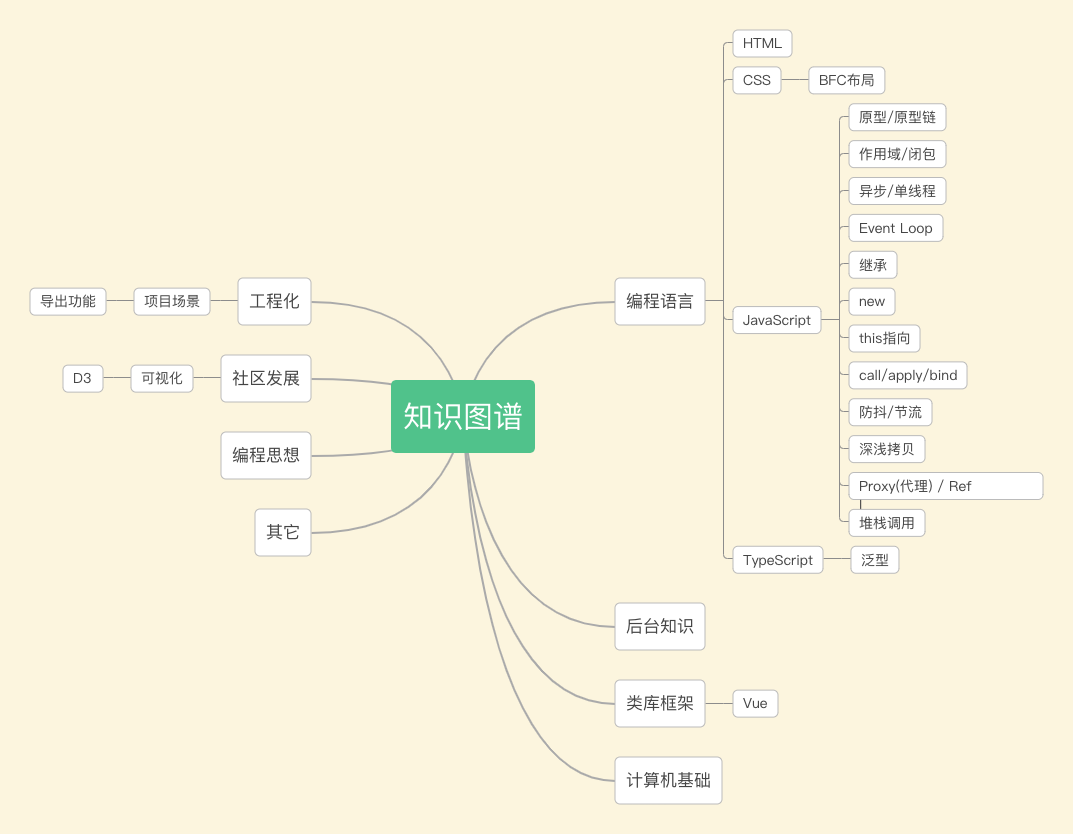
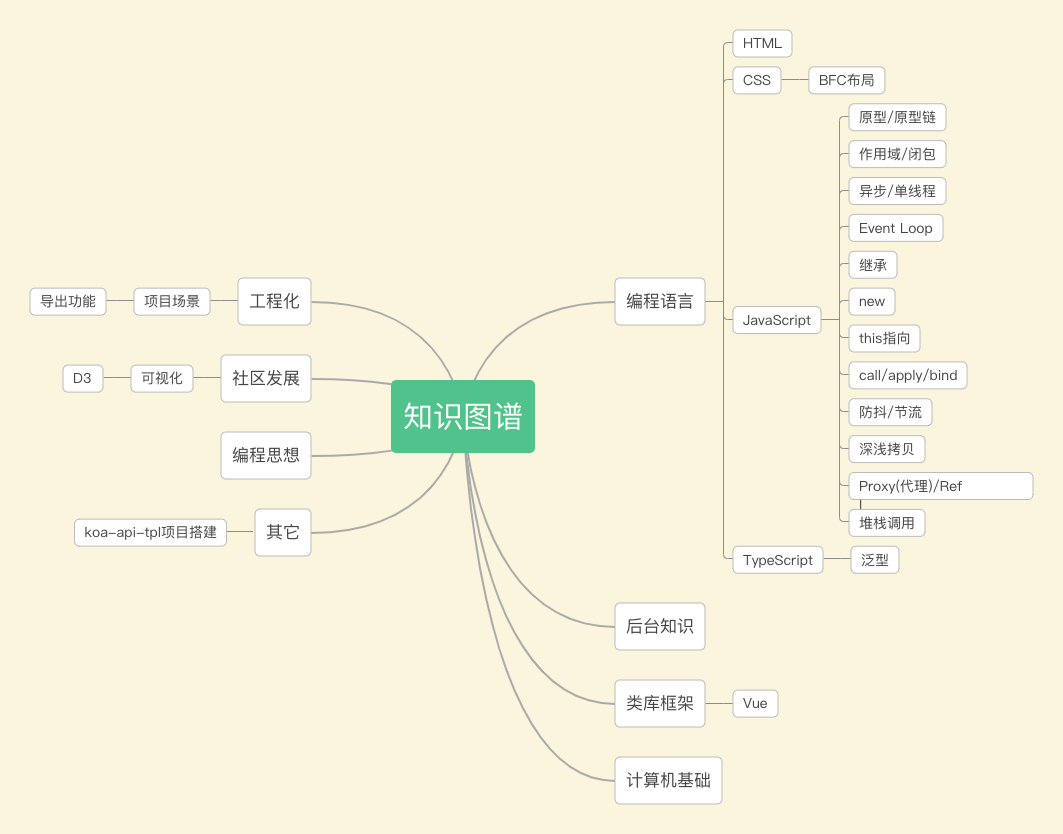
docs: koa-api项目搭建

diff --git a/Other/koa-api-tpl项目搭建.md b/Other/koa-api-tpl项目搭建.md
@@ -1,0 +1,341 @@
+## 目录
+
+```
+koa-api-tpl
+├─ .eslintrc.js            // eslint配置
+├─ .prettierrc             // prettierrc配置
+├─ .huskyrc                // 钩子Husky
+├─ commitlint.config.js    // commitlint配置
+├─ ormconfig.js            // typeorm数据库配置
+├─ package.json            // 项目配置
+├─ src
+│    ├─ controller         // 业务逻辑
+│    ├─ entity             // 数据库模型
+│    ├─ index.ts           // 入口
+│    ├─ middlewares        // 中间件
+│    ├─ routes             // 路由
+│    ├─ types              // 数据的类型
+│    └─ utils              // 常用工具
+└─ tsconfig.json
+```
+
+### 快速构建一个项目
+
+```
+mkdir koa-api-tpl
+
+npm init   // 生成package.json文件
+
+npm install koa --save
+
+npm install --save-dev typescript @types/koa
+```
+
+生成tsc配置文件(tsconfig.json):
+
+```
+tsc --init
+```
+文件详情：[tsconfig.json](https://github.com/levinhax/koa-api-tpl/blob/master/tsconfig.json)
+
+在node中采用CommonJS 模块规范，而我们使用TypeScript之后，将会使用es6的import进行模块的导入导出，而typescript文件最终编译回javascript文件的时候，需要将这部分代码转换成CommonJS规范，否则项目出错，所以module选项应为commonjs。
+
+### 编写并启动文件
+
+```
+src/index.ts
+
+const Koa = require('koa')
+const app = new Koa()
+
+import { Context } from 'koa'
+
+app.use(async (ctx: Context) => {
+    ctx.body = 'Hello World'
+})
+
+app.listen(5000, () => {
+    console.log(`Server is running on port 5000`)
+})
+```
+
+### 开发热更新
+
+1. ts-node-dev
+
+```
+npm install --save-dev ts-node-dev cross-env
+```
+
+```
+"scripts": {
+  "dev": "cross-env NODE_ENV=development ts-node-dev --inspect -- src/index.ts",
+}
+```
+
+2. ts-node + nodemon实现Typescript项目热更新
+
+- ts-node: 直接运行ts项目
+- nodemon: 监听文件改变自动重启Node Server服务的工具
+
+```
+"scripts": {
+  "start": "nodemon -e ts,tsx --exec ts-node src/index.ts"
+}
+```
+
+上述参数是设置在命令行中的，也可以在nodemon.json中设置
+```
+"scripts": {
+  "start": "nodemon src/index.ts"
+}
+```
+
+```
+// nodemon.json
+
+{
+    "restartable": "rs",
+    "verbose": true,
+    "execMap": {
+        "ts": "ts-node"
+    },
+    "ignore": ["**/*.test.ts", ".git", "node_modules"],
+    "watch": ["src"],
+    "env": {
+        "TS_NODE_FILES": "true",
+        "TS_NODE_PROJECT": "./tsconfig.json",
+        "APP_ENV": "dev",
+        "NODE_ENV": "qa",
+        "DBNAME": "galaxy",
+        "DBACCOUNT": "root",
+        "DBPASSWORD": "pass123456"
+    },
+    "ext": "js,json,ts"
+}
+```
+
+### 代码规范
+
+#### eslint结合prettier规范代码并格式化
+
+```
+npm install --save-dev eslint prettier @typescript-eslint/parser @typescript-eslint/eslint-plugin eslint-config-airbnb eslint-config-prettier eslint-plugin-prettier
+```
+
+- eslint-config-airbnb: airbnb是我们主要的代码检测规则
+- eslint-config-prettier: 解决eslint和prettier对于同一个错误多次报错的问题
+- eslint-plugin-prettier: 让eslint调用prettier对你的代码风格进行检查
+- 在根目录下新建 .eslintrc.js 文件
+- 根目录添加 .prettierrc 文件，用作该项目的prettierrc格式化配置
+
+```
+.eslintrc.js
+
+module.exports = {
+  parser: '@typescript-eslint/parser', // Specifies the ESLint parser
+  extends: [
+    'plugin:@typescript-eslint/recommended', // Uses the recommended rules from @typescript-eslint/eslint-plugin
+    'prettier/@typescript-eslint',
+    'plugin:prettier/recommended'
+  ],
+  parserOptions: {
+    ecmaVersion: 2020, // Allows for the parsing of modern ECMAScript features
+    sourceType: 'module', // Allows for the use of imports
+    ecmaFeatures: {
+      jsx: true // Allows for the parsing of JSX
+    }
+  },
+  rules: {
+    // Place to specify ESLint rules. Can be used to overwrite rules specified from the extended configs
+    // e.g. '@typescript-eslint/explicit-function-return-type': 'off',
+    '@typescript-eslint/no-var-requires': 'off',
+    'no-console': 'off',
+    'no-debugger': 'off',
+    'no-unused-vars': 'off'
+  },
+  env: {
+    browser: true,
+    node: true
+  }
+}
+```
+
+```
+.prettierrc
+
+{
+  "printWidth": 100,
+  "tabWidth": 2,
+  "singleQuote": true,
+  "semi": false,
+  "proseWrap": "always",
+  "arrowParens": "avoid",
+  "bracketSpacing": true,
+  "endOfLine": "lf"
+}
+```
+
+.prettierrc和.eslintrc.js配置中，如果module出现了警告，在在根目录新建.eslintignore，在该文件里面把 .eslintrc.js和.prettierrc文件添加为检测对象即可
+```
+// .eslintignore
+
+!.prettierrc    // ! 是添加进检测的意思
+```
+
+#### 使用husky做pre-commit
+
+- 添加一个命令到package.json中去，用作代码格式检测
+
+```
+"scripts": {
+    "test": "echo \"Error: no test specified\" && exit 1",
+    "lint": "eslint src --ext .ts,.tsx"
+},
+```
+
+- 添加pre-commit
+
+我们使用husky这个库来为我们添加pre-commit功能: npm install husky --save-dev
+
+```
+// package.json
+
+"husky": {
+    "hooks": {
+      "pre-commit": "npm run lint"
+    }
+},
+```
+这里直接使用了.huskyrc配置文件
+
+```
+{
+  "hooks": {
+    "pre-commit": "lint-staged",
+    "commit-msg": "commitlint -E HUSKY_GIT_PARAMS"
+  }
+}
+```
+
+- 使用commitlint规范git提交信息
+
+```
+npm install --save-dev lint-staged @commitlint/cli @commitlint/config-conventional
+```
+
+在根目录新建一个 commitlint.config.js 文件，用作自定义一些commit提交规则，当然这一步也可以不做，直接使用常规校验也行
+```
+module.exports = {
+  extends: ['@commitlint/config-conventional'],
+  rules: {
+    'type-enum': [
+      2,
+      'always',
+      [
+        'build',
+        'ci',
+        'chore',
+        'docs',
+        'feat',
+        'fix',
+        'perf',
+        'refactor',
+        'revert',
+        'style',
+        'test',
+      ],
+    ],
+    'type-case': [0],
+    'type-empty': [0],
+    'scope-empty': [0],
+    'scope-case': [0],
+    'subject-full-stop': [0, 'never'],
+    'subject-case': [0, 'never'],
+    'header-max-length': [0, 'always', 72],
+  },
+}
+```
+
+在之前的husky配置中，把commitlint的校验命令添加进去:
+```
+"husky": {
+    "hooks": {
+      "pre-commit": "npm run lint",
+      "commit-msg": "commitlint -E HUSKY_GIT_PARAMS"
+    }
+},
+```
+
+pageage.json中添加:
+
+```
+"lint-staged": {
+    "src/**/*.{ts,tsx}": [
+      "prettier --write \"src/**/*.ts\"",
+      "eslint --fix"
+    ]
+},
+```
+
+### 使用pm2跑后端项目
+
+```
+"scripts": {
+    "dev": "cross-env NODE_ENV=development ts-node-dev --inspect -- src/index.ts",
+    "build": "tsc",
+    "test": "echo \"Error: no test specified\" && exit 1",
+    "lint": "eslint src --ext .ts,.tsx"
+},
+```
+
+pm2是node进程管理工具，可以利用它来简化很多node应用管理的繁琐任务，如性能监控、自动重启、负载均衡等，而且使用非常简单
+
+安装并使用pm2: npm install -g pm2
+
+启动后端项目: pm2 start dist/src/index.js --watch -i 2
+
+访问: http://localhost:5000/
+
+### 静态资源目录
+
+使用koa-static中间件，只需简单几步就可以搭建一个静态服务器，让我们获取到项目中的图片等静态资源。
+```
+npm install --save koa-static
+npm install --save-dev @types/koa-static
+```
+
+```
+// 配置静态web服务的中间件
+import koaStatic from 'koa-static';
+const path = require('path');
+
+// app.use(koaStatic(__dirname + '/static/'));
+app.use(koaStatic(path.join(__dirname + '/static/')));
+```
+
+### 跨域
+
+```
+npm install --save koa2-cors
+npm install --save-dev @types/koa2-cors
+```
+
+### 获取请求参数
+
+```
+npm install --save koa-bodyparser
+npm install --save-dev @types/koa-bodyparser
+```
+打印 ctx.request对象发现可以获取到传的参数
+
+### 连接数据库
+
+*请确保数据库已安装*
+
+typeorm、mysql中间件
+
+``````
+npm install typeorm --save
+npm install mysql --save
+```

diff --git a/README.md b/README.md
@@ -55,3 +55,7 @@
 
 - [导出功能](Engineering/ProjectScene/导出功能.md)
 - [日常总结](Engineering/ProjectScene/日常总结.md)
+
+### 其他(Other)
+
+- [koa-api-tpl项目搭建](Other/koa-api-tpl项目搭建.md)
